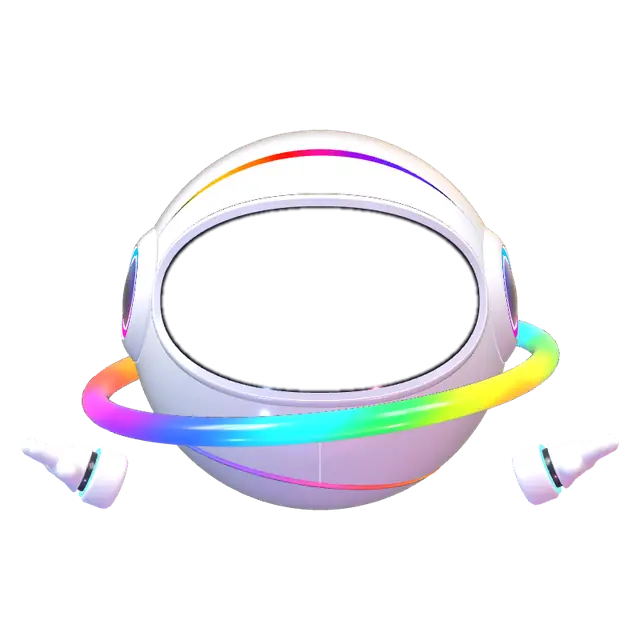
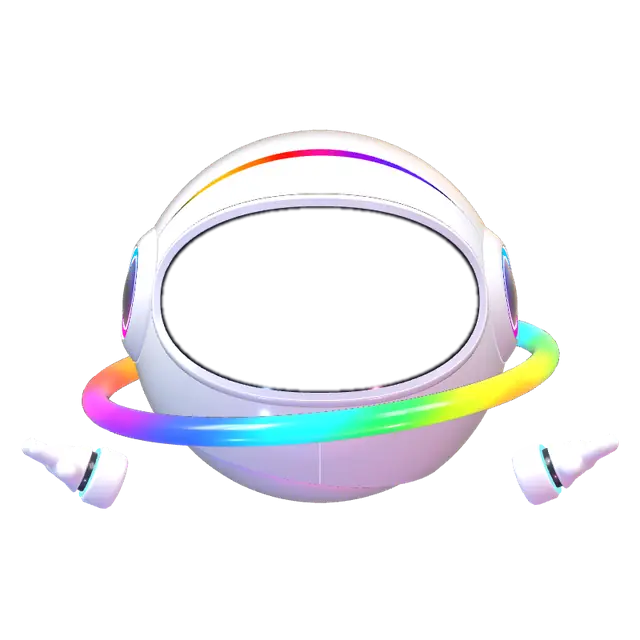
Character: the bottom panel in a real cut, with the light inside it
The owner, from four reference pictures: "It's not just a color filling or a
gradient color, it has a cutting ... this bottom rack will open ... inside that
cutting that light gradient light comes in."

The model's flush panel, groove and drawn line are replaced, on the model's own
cut (same tilt, angle and width), by: a panel set a little inside the shell
with a rounded edge; a rounded lip on the shell with a wall down into a dark
slot; and the gradient light inside the cut, a sharp line on the panel's edge
that spills onto the panel and the slot's walls, dark across the back. The loader
pictures and the Home still are re-rendered with it.

Claude-Session: https://claude.ai/code/session_011BdSE2fEeiEv9ZgoYmWAPn

Changed region(s): [[0.2812, 0.6875, 0.6562, 0.8125], [0.6562, 0.7188, 0.6875, 0.75]]

diff --git a/src/lib/character3d.js b/src/lib/character3d.js
@@ -256,7 +256,7 @@ export class Character {
       if (n === "lowSeamGlow") m.renderOrder = 2;
     });
     dress(body); dress(glove);
-    this.crispSeam(body);
+    this.bottomCut(body);
 
     // The faces: one picture, cut into one texture per face; the visor maps a face across its width.
     this.faces = {};
@@ -324,28 +324,25 @@ export class Character {
   }
 
   /**
-   * The cut round its bottom, crisp (Lucky, 25 Nov: "bottom part looks blurry and its not crisp and sharp like our
-   * previous character bottom"). No soft halo round the line; the lit line raised into the mouth of the cut, so its
-   * colours fill the cut with clean edges; and the shell shaded as the true sphere it is (the cut had left ragged
-   * shading along its edges). The model's points are packed small numbers, so the line is moved by its transform,
-   * never by rewriting its points.
+   * The bottom panel and the cut round it (Lucky, 25 Nov, from four reference pictures: "it has a cutting ... this
+   * bottom rack will open ... inside that cutting that light gradient light comes in"). The panel sits a little inside
+   * the shell; the shell's edge is rounded and has a wall down into the cut; and the light is inside the cut, on the
+   * panel's edge, spilling onto the panel and the walls, dark across the back. Made here on the model's own cut (its
+   * tilt, angle and width, from design/hero/character/v3/build.py with Blender's axes turned to the web's), in place
+   * of the model's flush panel, groove and drawn line. The shell is shaded as the true ball it is (the cut had left
+   * ragged shading along its edge).
    */
-  crispSeam(body) {
+  bottomCut(body) {
+    const V3 = THREE.Vector3, rad = Math.PI / 180;
     body.updateMatrixWorld(true);
-    const centre = this.pivot.localToWorld(new THREE.Vector3());          // the body is a ball of radius 1 round this
-    body.getObjectByName("LowSeamGlow")?.removeFromParent();
-    const seam = body.getObjectByName("LowSeam");
-    if (seam) {
-      const c = seam.parent.worldToLocal(centre.clone()), k = 1.009;      // its middle just reaches the surface
-      seam.position.sub(c).multiplyScalar(k).add(c); seam.scale.multiplyScalar(k);
-    }
-    const toPivot = new THREE.Matrix4(), toLocal = new THREE.Matrix3(), p = new THREE.Vector3(), n = new THREE.Vector3();
+    for (const n of ["Sphere_1", "Sphere_2", "LowSeam", "LowSeamGlow"]) body.getObjectByName(n)?.removeFromParent();
+    // The shell, shaded as a ball (its points are packed small numbers: normals are rewritten, points never).
+    const toPivot = new THREE.Matrix4(), toLocal = new THREE.Matrix3(), p = new V3(), n = new V3();
     const inv = new THREE.Matrix4().copy(this.pivot.matrixWorld).invert();
-    for (const name of ["Sphere", "Sphere_2"]) {                           // the shell and its bottom panel
-      const m = body.getObjectByName(name);
-      if (!m?.isMesh) continue;
-      toPivot.multiplyMatrices(inv, m.matrixWorld); toLocal.setFromMatrix4(toPivot).transpose();
-      const pos = m.geometry.attributes.position, nor = m.geometry.attributes.normal;
+    const shell = body.getObjectByName("Sphere");
+    if (shell?.isMesh) {
+      toPivot.multiplyMatrices(inv, shell.matrixWorld); toLocal.setFromMatrix4(toPivot).transpose();
+      const pos = shell.geometry.attributes.position, nor = shell.geometry.attributes.normal;
       for (let i = 0; i < pos.count; i++) {
         p.fromBufferAttribute(pos, i).applyMatrix4(toPivot);
         if (Math.abs(p.length() - 1) > 0.02) continue;                   // only points on the ball itself
@@ -353,6 +350,87 @@ export class Character {
       }
       nor.needsUpdate = true;
     }
+    // The cut: a tilted cone round AX (the panel is within RHO - w of it, the shell beyond RHO + w); thin at the front, wide at the back.
+    const h0 = new V3(Math.sin(212 * rad), -Math.cos(212 * rad), 0);
+    const axB = new V3(0, 0, -1).multiplyScalar(Math.cos(21 * rad)).addScaledVector(h0, Math.sin(21 * rad)).normalize();
+    const uB = h0.clone().negate().addScaledVector(axB, h0.dot(axB)).normalize();
+    const web = (v) => new V3(v.x, v.z, -v.y), AX = web(axB), U = web(uB), V = AX.clone().cross(U);
+    const RHO = 53 * rad, half = (f) => 0.015 + 0.035 * Math.pow(0.5 - 0.5 * Math.cos(f), 1.3);
+    const dir = (th, f) => new V3().copy(U).multiplyScalar(Math.cos(f)).addScaledVector(V, Math.sin(f)).multiplyScalar(Math.sin(th)).addScaledVector(AX, Math.cos(th));
+    const tang = (th, f) => new V3().copy(U).multiplyScalar(Math.cos(f)).addScaledVector(V, Math.sin(f)).multiplyScalar(Math.cos(th)).addScaledVector(AX, -Math.sin(th));
+    // The light's colours round the cut, as the model's line had them: red at the lowest point, then magenta, purple,
+    // blue and cyan up each side, dark across the back.
+    const STOPS = [[0, [1, 0.34, 0.12]], [0.04, [1, 0.2, 0.22]], [0.1, [1, 0.24, 0.72]], [0.18, [0.62, 0.3, 1]], [0.27, [0.2, 0.5, 1]], [0.36, [0.1, 0.8, 1]],
+      [0.4, [0.02, 0.03, 0.05]], [0.6, [0.02, 0.03, 0.05]], [0.64, [0.1, 0.85, 1]], [0.72, [0.2, 0.5, 1]], [0.8, [0.62, 0.3, 1]], [0.87, [1, 0.24, 0.72]],
+      [0.93, [1, 0.22, 0.2]], [0.975, [1, 0.5, 0.12]], [1, [1, 0.34, 0.12]]];
+    const light = (f) => {
+      const t = (f / (2 * Math.PI) + 0.04) % 1; let i = 1; while (STOPS[i][0] < t) i++;
+      const [t0, a] = STOPS[i - 1], [t1, c] = STOPS[i], k = (t - t0) / (t1 - t0);
+      return a.map((x, j) => Math.pow(x + (c[j] - x) * k, 2.2));
+    };
+    const mul = (c, k) => [c[0] * k, c[1] * k, c[2] * k], NONE = [0, 0, 0];
+    const WHITE = [0.945, 0.949, 0.969], DARK = [0.02, 0.024, 0.034];
+    const RP = 0.962, BP = 0.022, BS = 0.009, FLOOR = 0.9, N = 240;
+    // One surface round the cut: rows(f) gives its profile at f, the same number of points all the way round, each
+    // { th, r, a (the normal's tilt: 0 out, +90 toward the shell, -90 toward the panel), c (colour), g (light) }.
+    const toBody = new THREE.Matrix4().copy(body.matrixWorld).invert().multiply(this.pivot.matrixWorld);
+    const band = (rows, material) => {
+      const pos = [], nor = [], col = [], glo = [], idx = []; let m = 0;
+      for (let i = 0; i <= N; i++) {
+        const f = (i / N) * 2 * Math.PI, row = rows(f); m = row.length;
+        for (const q of row) {
+          const d = dir(q.th, f), t = tang(q.th, f), a = q.a * rad, pt = d.clone().multiplyScalar(q.r), nn = d.multiplyScalar(Math.cos(a)).addScaledVector(t, Math.sin(a));
+          pos.push(pt.x, pt.y, pt.z); nor.push(nn.x, nn.y, nn.z); col.push(...q.c); glo.push(...(q.g ?? NONE));
+        }
+      }
+      for (let i = 0; i < N; i++) for (let k = 0; k < m - 1; k++) { const a = i * m + k, b = a + m; idx.push(a, a + 1, b, a + 1, b + 1, b); }
+      const g = new THREE.BufferGeometry();
+      g.setAttribute("position", new THREE.Float32BufferAttribute(pos, 3)); g.setAttribute("normal", new THREE.Float32BufferAttribute(nor, 3));
+      g.setAttribute("color", new THREE.Float32BufferAttribute(col, 3)); g.setAttribute("glow", new THREE.Float32BufferAttribute(glo, 3));
+      g.setIndex(idx); g.applyMatrix4(toBody);
+      const mesh = new THREE.Mesh(g, material); body.add(mesh); return mesh;
+    };
+    const lit = new THREE.MeshPhysicalMaterial({ color: 0xffffff, vertexColors: true, roughness: 0.14, clearcoat: 1, clearcoatRoughness: 0.04 });
+    lit.onBeforeCompile = (sh) => {                                       // the cut's light, carried by each point
+      sh.vertexShader = sh.vertexShader.replace("#include <common>", "#include <common>\nattribute vec3 glow;\nvarying vec3 vGlow;").replace("#include <begin_vertex>", "#include <begin_vertex>\n\tvGlow = glow;");
+      sh.fragmentShader = sh.fragmentShader.replace("#include <common>", "#include <common>\nvarying vec3 vGlow;").replace("#include <emissivemap_fragment>", "#include <emissivemap_fragment>\n\ttotalEmissiveRadiance += vGlow;");
+    };
+    const arc = (n, fn) => Array.from({ length: n + 1 }, (_, k) => fn(k / n));
+    // The light at f as one pure colour at full strength (S), faded out where the line goes dark across the back.
+    const pure = (f) => { const L = light(f), m = Math.max(...L), on = Math.min(1, Math.max(0, (m - 0.004) / 0.25)); return m > 0 ? L.map((x) => (x / m) * on) : NONE; };
+    const edgeOf = (f) => RHO - half(f) - 0.018;                         // the panel's edge, a little in from the model's
+    const wallOf = (f) => RHO + half(f) - BS;                            // the shell's wall
+    // The panel: a dome a little inside the shell, white, with only a soft wash of the light near its edge.
+    band((f) => {
+      const S = pure(f), c = edgeOf(f) - BP / RP;
+      return [
+        ...arc(30, (u) => { const k = Math.exp(-(c - c * u) / 0.03); return { th: c * u, r: RP, a: 0, c: mul(WHITE, 1 - 0.35 * k), g: mul(S, 0.55 * k) }; }),
+        ...arc(2, (u) => { const b = u * 12 * rad; return { th: c + (BP / RP) * Math.sin(b), r: RP - BP + BP * Math.cos(b), a: u * 12, c: mul(WHITE, 0.65 - 0.4 * u), g: mul(S, 0.55 + 0.5 * u) }; }),
+      ];
+    }, lit);
+    // The light, on the panel's rounded edge and down its side into the cut: a sharp line, white-hot at its middle.
+    band((f) => {
+      const S = pure(f), c = edgeOf(f) - BP / RP, hot = (k) => S.map((x) => Math.min(1, x * 1.0 + 0.45 * k * Math.max(...S)));
+      return [
+        ...arc(8, (u) => { const b = (12 + u * 78) * rad; return { th: c + (BP / RP) * Math.sin(b), r: RP - BP + BP * Math.cos(b), a: 12 + u * 78, c: hot(Math.sin(Math.PI * Math.min(1, u * 1.15))) }; }),
+        ...arc(3, (u) => ({ th: edgeOf(f), r: RP - BP - (RP - BP - FLOOR) * u, a: 90, c: mul(S, 0.75 - 0.5 * u) })),
+      ];
+    }, new THREE.MeshBasicMaterial({ vertexColors: true, toneMapped: false }));
+    // The floor of the cut, dark, with a little of the light on it.
+    band((f) => {
+      const S = pure(f), a = edgeOf(f), b = wallOf(f);
+      return arc(2, (u) => ({ th: a + (b - a) * u, r: FLOOR, a: 0, c: DARK, g: mul(S, 0.6) }));
+    }, lit);
+    // The shell's edge: a dark wall up out of the cut (the light reflected low on it), a rounded white lip, and the
+    // shell's surface out to (and a little over) the model's own edge, which it hides.
+    band((f) => {
+      const S = pure(f), w = wallOf(f);
+      return [
+        ...arc(2, (u) => ({ th: w, r: FLOOR + (1 - BS - FLOOR) * u, a: -90, c: DARK, g: mul(S, 1.0 * (1 - 0.65 * u)) })),
+        ...arc(7, (u) => { const b = (1 - u) * 90 * rad; return { th: w + BS - BS * Math.sin(b), r: 1 - BS + BS * Math.cos(b), a: -(1 - u) * 90, c: WHITE, g: mul(S, 0.45 * (1 - u)) }; }),
+        ...arc(2, (u) => ({ th: w + BS + (BS + 0.004) * u, r: 1.0004, a: 0, c: WHITE })),
+      ];
+    }, lit);
   }
 
   /** Puts it on a stage. The visor gets its own, much dimmer copy of the studio's reflection (a material only dims a

diff --git a/LAUNCH-CHECKLIST.md b/LAUNCH-CHECKLIST.md
@@ -7,7 +7,7 @@ Tick items as they are done.
 
 - [ ] Run the full checks in CLAUDE.md: lint, types, build, `npm run audit`, Lighthouse on mobile and desktop. (Run on the staging site on 16 November 2026, results below. Run them once more on Hostinger after the move.)
 - [x] Phone speed on pagespeed.web.dev (target 97+), 17 November, after each page's main image moved to the site's own address: `/work` 97, `/services/ai-websites` 96, `/work/cabot-solutions` 96 (were 95, 90 and 94); desktop 100 on all three. A score moves a point or two between runs. Putting the styles inside each page (`inlineCss`) was tried and undone: it made phones slower.
-- [x] The "View" cursor is back (25 November, the owner approved it from a picture): a dot that follows the mouse, a ring over links and buttons, a "View" disc over work; computers with a mouse only, the normal pointer for touch screens and reduced motion (`src/components/motion/Cursor.tsx`). The character's bottom cut is crisp again (the owner: "bottom part looks blurry"): no soft halo round its line, the lit line fills the cut, and the shell is shaded as a true ball (`crispSeam` in `src/lib/character3d.js`); the loader pictures and the Home still are re-rendered with it.
+- [x] The "View" cursor is back (25 November, the owner approved it from a picture): a dot that follows the mouse, a ring over links and buttons, a "View" disc over work; computers with a mouse only, the normal pointer for touch screens and reduced motion (`src/components/motion/Cursor.tsx`). The character's bottom is a real panel in a cut (the owner, from four reference pictures: "it has a cutting ... this bottom rack will open ... inside that cutting that light gradient light comes in"): the panel sits a little inside the shell, the shell has a rounded lip and a wall down into a dark slot, and the gradient light is inside the cut, on the panel's edge, spilling onto the panel and the walls, dark across the back; no soft halo, and the shell is shaded as a true ball (`bottomCut` in `src/lib/character3d.js`). The loader pictures and the Home still are re-rendered with it.
 - [x] Home speed with the backflip loader (25 November, the owner's pagespeed.web.dev run, a first visit with the loader): phone 97, desktop 97; accessibility, best practices and SEO 100. The loader hides the page for about 1.5 s on purpose, which is what keeps desktop off 100 (100 with it skipped in our own test).
 - [x] Phone speed on Home since the first-visit character intro went live (19 November): pagespeed.web.dev on 20 November (the owner's run, a first visit with the intro): phone 98, desktop 98; accessibility, best practices and SEO 100. Lighthouse in the test environment gave 97 to 99 (50 before that day's fixes). Desktop is a point under the 99 goal: what is left is the intro covering the first screen while it plays; repeat visits skip it.
 - [x] Firefox (20 November): Firefox 160 from Mozilla's own package source (the owner allowed `packages.mozilla.org` in the test environment). Every page at phone, tablet and desktop widths (102 page loads) and the click-through checks: all fine. Fixed on the way: a case study's website address wrapped mid-word on phones ("cabotsolutions.co / m"); it now breaks before the ending ("cabotsolutions / .com").
